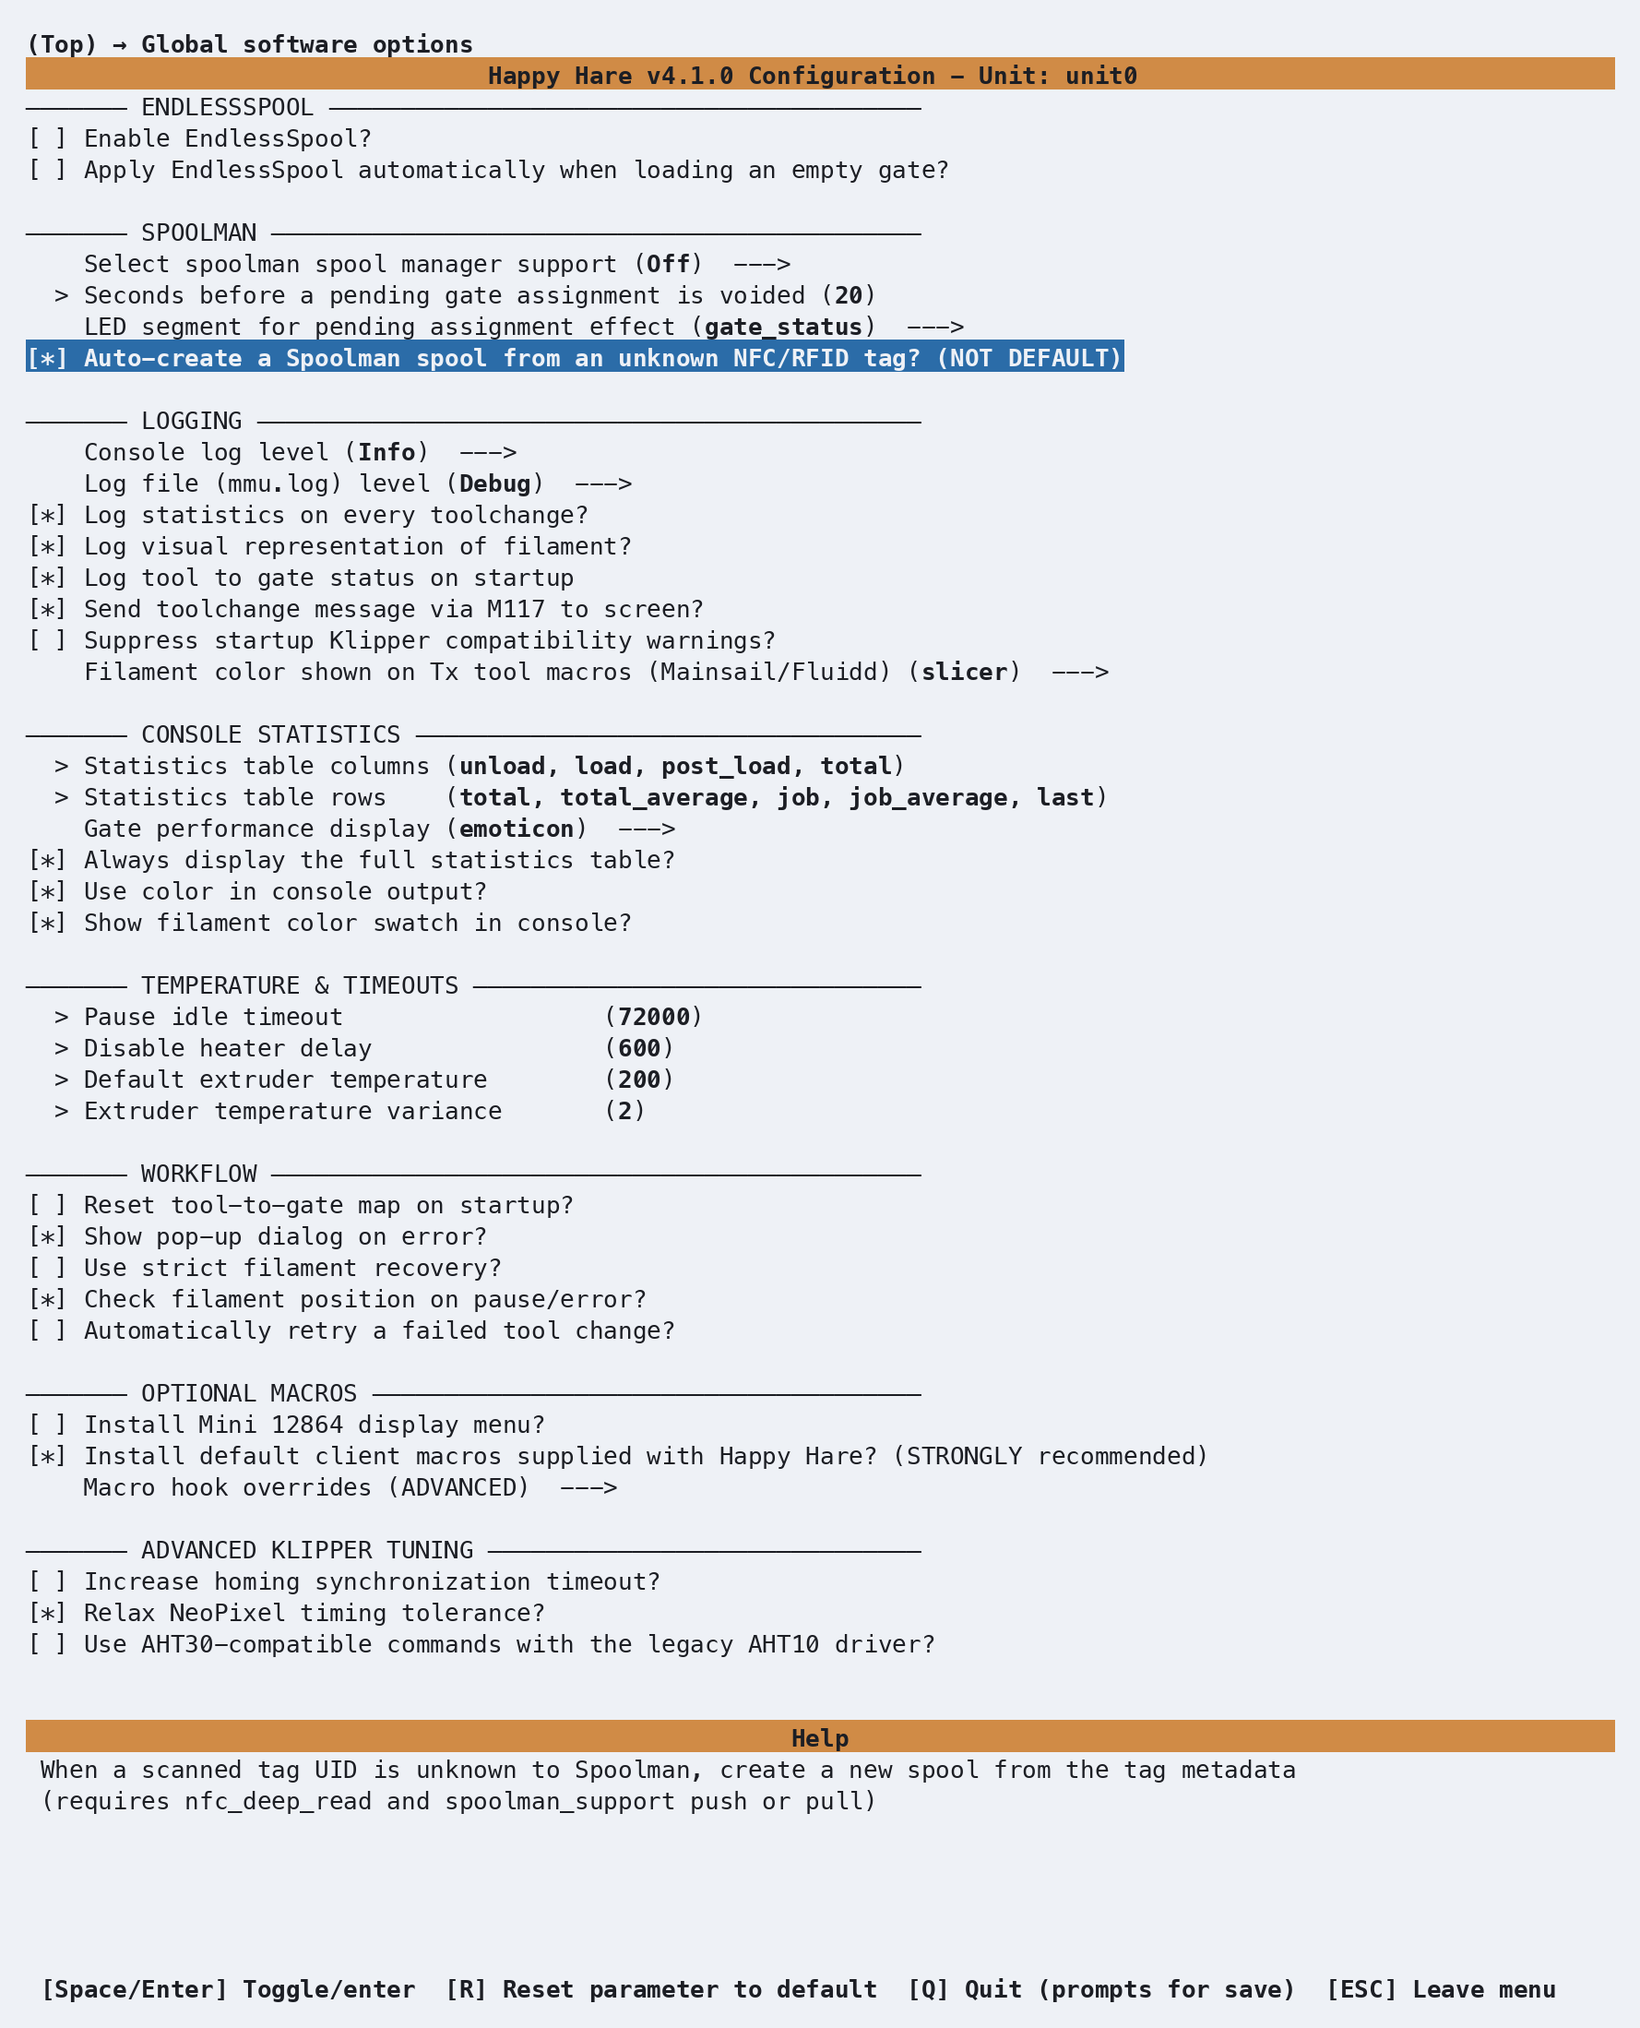
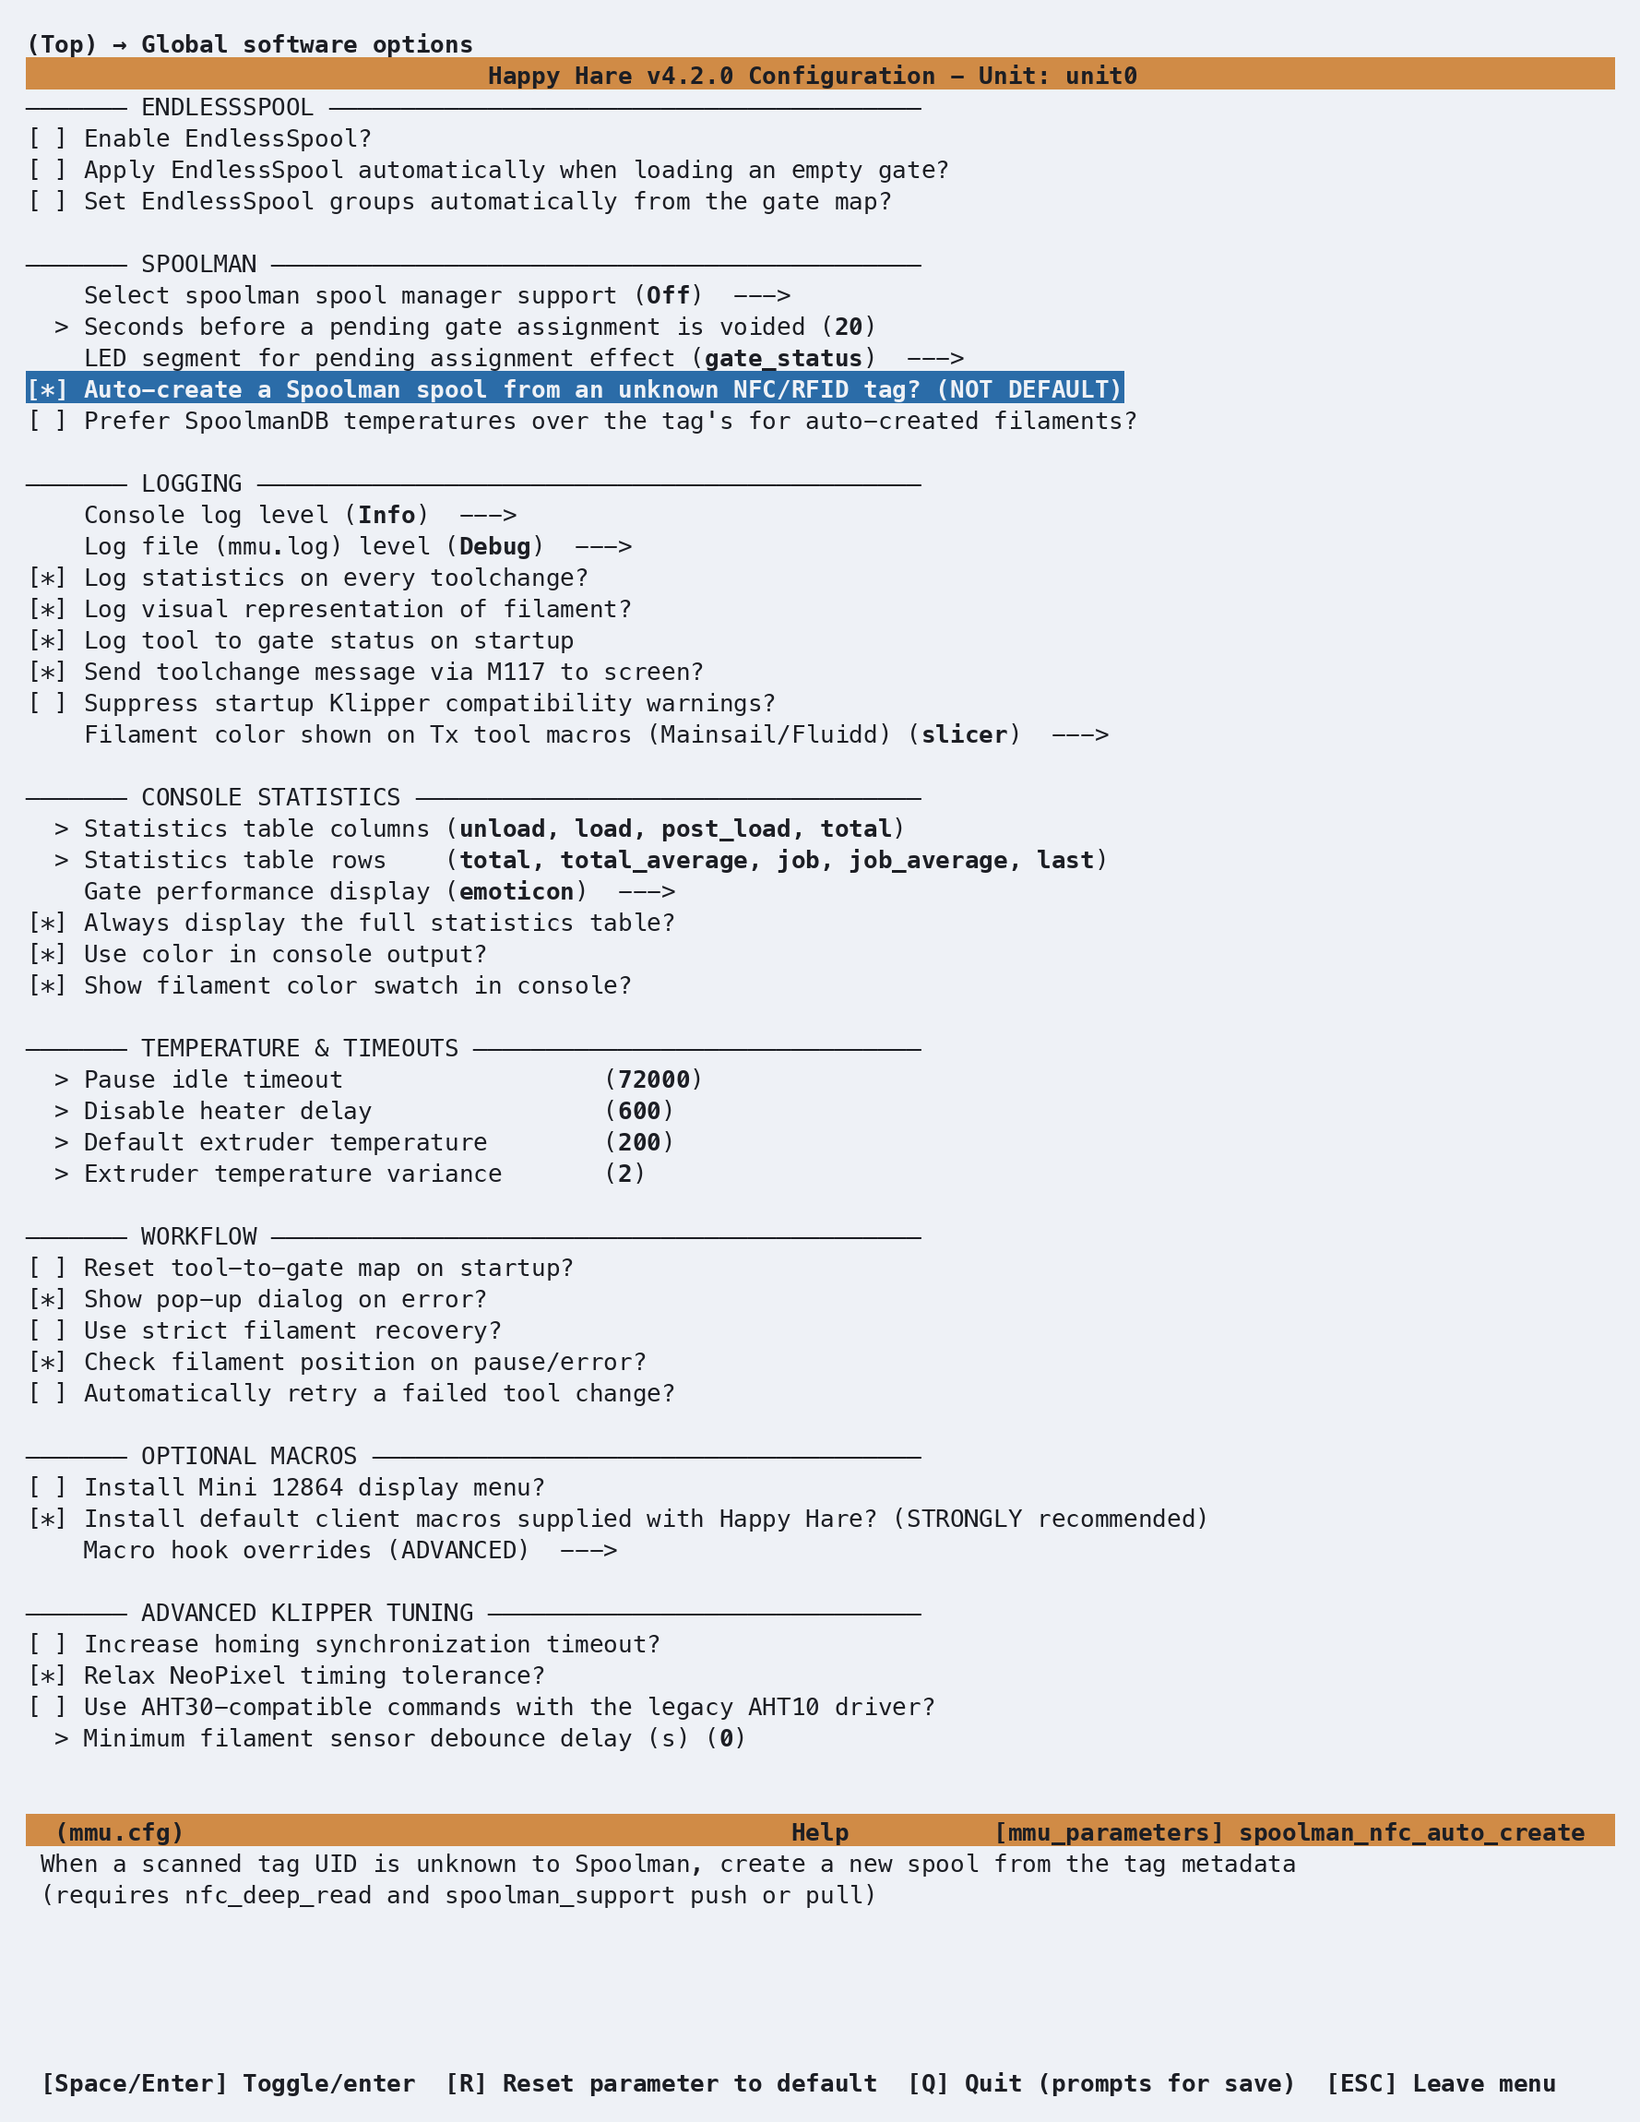
docs: cover automatic EndlessSpool groups

diff --git a/doc_tools/shots.py b/doc_tools/shots.py
@@ -839,7 +839,7 @@ def _feature_endless_spool_runout(mc, shot):
     """
     mc.enter(menu_of('PARAM_ENDLESS_SPOOL_ENABLED'))
     mc.select(symbol('PARAM_ENDLESS_SPOOL_ENABLED'))
-    # both EndlessSpool checkboxes, off by default
+    # EndlessSpool enable, on-load and automatic-group checkboxes, off by default
     shot('endless-spool-options')
 
 

diff --git a/doc/Feature-Endless-Spool-Runout.md b/doc/Feature-Endless-Spool-Runout.md
@@ -44,30 +44,30 @@ fitted and active.
 
 ## Parameter Setup
 
-Two checkboxes live under **Global software options** in menuconfig:
+The EndlessSpool options live under **Global software options** in menuconfig:
 
 <p align="center">
-  <img src="Feature-Endless-Spool-Runout/endless-spool-options.png" alt="Global software options screen, EndlessSpool section: Enable EndlessSpool and Apply EndlessSpool automatically when loading an empty gate, both off by default" width="80%">
+  <img src="Feature-Endless-Spool-Runout/endless-spool-options.png" alt="Global software options screen, EndlessSpool section: enable, apply on load, and automatic grouping, all off by default" width="80%">
 </p>
 
-Both default **off**. They set two plain settings in `mmu.cfg`, alongside two
-more that only a hand-edit reaches:
+All three checkboxes default **off**. They set the following options in
+`mmu.cfg`; the eject gate and default manual groups can also be edited there:
 
 ```ini
 endless_spool_enabled    : 0    # 0 = disable, 1 = enable EndlessSpool
 endless_spool_on_load    : 0    # 0 = don't apply on load, 1 = run EndlessSpool if the gate is empty
 endless_spool_eject_gate : -1   # Which gate to eject filament remains to. -1 = current gate
-endless_spool_groups     :      # Group membership per gate, comma-separated (blank = no groups defined)
+endless_spool_auto_groups: 0    # 0 = manual groups, 1 = group by gate-map material and color
+default_endless_spool_groups:   # Manual defaults, comma-separated (blank = one group per gate)
 ```
 
-`endless_spool_groups` is easier to manage from the console than by hand -
+Manual groups are easier to manage from the console than by hand -
 see [Commands](#commands) below. `endless_spool_eject_gate` lets a design
 with a moving selector send the leftover filament fragment somewhere other
 than back through the gate it just came from - useful if your buffer design
 tends to let that fragment drift into a neighboring gate's buffer and
-tangle it. Set it to the gate number you want to use (it must be `1` or
-higher - `0` isn't accepted here, so gate 0 can't be the designated waste
-gate). Two things worth knowing before turning it on:
+tangle it. Set it to the gate number you want to use (gate numbering starts
+at `0`). Two things worth knowing before turning it on:
 
 !!! warning "Important"
     Selecting a waste gate this way disables entry-sensor runout detection
@@ -82,6 +82,49 @@ on demand - a design with no moving selector, or one where reaching a
 specific gate independent of the print isn't practical, generally won't
 benefit from this option.
 
+### Automatic groups from the gate map
+
+Enable **Set EndlessSpool groups automatically from the gate map?** in
+menuconfig, or set `endless_spool_auto_groups: 1` in `mmu.cfg` and restart
+Klipper. Enable EndlessSpool itself too; automatic grouping only controls
+which gates back each other up.
+
+Gates with the same material and RGB color share a group. Material matching
+ignores case; color names match their hexadecimal RGB values, and the alpha
+(transparency) component is ignored. For example, `PLA` / `red` and
+`pla` / `FF0000E3` match, but red PETG belongs to a different group.
+The group number comes from the first gate with that material and color.
+With gates 0–3 holding white PETG, black ASA, white ASA and white ASA,
+the groups are `0,1,2,2`.
+
+Groups follow gate-map updates, including edits with
+[`MMU_GATE_MAP`](Reference-Commands.md#mmu_gate_map),
+[Spoolman](Feature-Spoolman.md) and [NFC tags](Feature-NFC.md). They are also rebuilt
+at startup, when gate availability changes, and on `MMU_ENDLESS_SPOOL RESET=1`.
+A gate with filament but missing material or color stays in a group of its
+own; `unknown` material also counts as missing.
+
+An emptied gate remembers its previous material and color for grouping even
+if its gate-map attributes are cleared. This lets a runout or
+[`MMU_CHECK_GATE`](Reference-Commands.md#mmu_check_gate) still find a matching
+replacement. It stays with matching spools if another member changes material
+or color. After a restart, or when automatic grouping is first enabled, an
+empty gate can recover that identity from former group members only if their
+known material and color agree; otherwise it stands alone. Refilling a gate
+without material or color removes it from its old group until that data is
+available again.
+
+To try automatic grouping for the current session:
+
+```text
+MMU_TEST_CONFIG endless_spool_auto_groups=1
+MMU_ENDLESS_SPOOL ENABLE=1
+```
+
+Save the option in `mmu.cfg` or menuconfig to keep it after a restart.
+Automatic grouping uses material and color only: check that grouped spools
+are suitable substitutes for your print.
+
 ## Commands
 
 Full parameter reference: [`MMU_ENDLESS_SPOOL`](Reference-Commands.md#mmu_endless_spool).
@@ -89,7 +132,7 @@ Full parameter reference: [`MMU_ENDLESS_SPOOL`](Reference-Commands.md#mmu_endles
 ```text
 MMU_ENDLESS_SPOOL                     # Report current status and groups
 MMU_ENDLESS_SPOOL GROUPS=1,1,2,2      # Gates 0+1 share a group, gates 2+3 share another
-MMU_ENDLESS_SPOOL RESET=1             # Back to the default grouping (normally one gate per group)
+MMU_ENDLESS_SPOOL RESET=1             # Restore configured enable state and rebuild/reset groups
 MMU_ENDLESS_SPOOL ENABLE=0 QUIET=1    # Turn EndlessSpool off without any console/log output
 ```
 
@@ -109,6 +152,12 @@ Groups are numbered when you set them (`GROUPS=0,1,2,1,...`) but reported
 back lettered (`Group A`, `Group B`, ...) - group `0` is `A`, group `1` is
 `B`, and so on. `GROUPS=` must list exactly one entry per gate; anything
 else is rejected with an error rather than partially applied.
+
+With automatic grouping enabled, `GROUPS=` reports an error and leaves the
+groups unchanged. `RESET=1` rebuilds groups from the gate map instead of
+keeping the manual defaults. The enabled status report also says that groups
+come from the gate map. To return to manual grouping, set
+`endless_spool_auto_groups` to `0`, then assign the groups you want.
 
 **A worked cycle**: with the `Group A: Gates: 0, 3, 6` grouping above, `T0`
 mapped to gate 0, and gate 3 already known empty from an earlier runout,
@@ -154,8 +203,10 @@ read it, but new macros should use `endless_spool_enabled` instead.
 
 - **Set up groups before you need them, not during a print.** Work out which
   gates share the same filament (color and material) and assign them the
-  same group number with `MMU_ENDLESS_SPOOL GROUPS=...` - a gate with no
-  match of its own should get a group number no other gate shares.
+  same group number with `MMU_ENDLESS_SPOOL GROUPS=...`, or enable automatic
+  grouping and check the resulting groups with `MMU_ENDLESS_SPOOL`. In manual
+  mode, a gate with no match of its own should get a group number no other
+  gate shares.
 - **Rehearse with `MMU_TEST_RUNOUT` first.** It exercises the exact same
   group lookup and gate remap a real runout would, without needing to
   actually run a spool dry - a good way to confirm your groups are set up the
@@ -185,7 +236,11 @@ read it, but new macros should use `endless_spool_enabled` instead.
   become flaky and is firing false runouts can be disabled on its own
   without losing runout detection everywhere else - see
   [Feature: Sensors](Feature-Sensors.md#tuning).
-- **`GROUPS=` was rejected** - it needs exactly one comma-separated,
+- **An automatically grouped gate has no backup** - check that its material
+  and color are present and match the intended replacement. A refilled gate
+  whose NFC tag was not read stays separate until its metadata is supplied.
+- **`GROUPS=` was rejected** - automatic grouping must be off to assign
+  groups manually. The command also needs exactly one comma-separated,
   non-negative integer per gate; a mismatched count or a stray character
   fails the whole command rather than applying part of it.
 

diff --git a/doc/Reference-Parameters.md b/doc/Reference-Parameters.md
@@ -94,7 +94,8 @@ the full picture.
 | `endless_spool_enabled` | `0` | Enable [EndlessSpool](Feature-Endless-Spool-Runout.md) - automatic hand-off to a spare gate on runout |
 | `endless_spool_on_load` | `0` | Also apply EndlessSpool if the gate a load targets turns out to be empty |
 | `endless_spool_eject_gate` | `-1` | Which gate to eject filament remains to - `-1` = the current gate |
-| `endless_spool_groups` | *(empty)* | EndlessSpool grouping list - empty means no groups defined |
+| `endless_spool_auto_groups` | `0` | Build groups automatically from gate-map material and RGB color; ignores alpha and rejects manual `GROUPS=` assignments. See [automatic grouping](Feature-Endless-Spool-Runout.md#automatic-groups-from-the-gate-map) |
+| `default_endless_spool_groups` | *(empty)* | Default manual group membership per gate; empty gives each gate its own group |
 | `spoolman_support` | `off` | `off`/`readonly`/`push`/`pull` - see [Feature: Spoolman / Filament Hub](Feature-Spoolman.md) for what each does |
 | `spoolman_pending_id_timeout` | `20` s | How long a pending gate assignment (spool ID, NFC tag or TD-1 scan) stays valid before being voided |
 | `spoolman_led_segment` | `gate_status` | Which LED segment(s) show the pending-assignment overlay: `gate_status`, `status`, or `both` |
@@ -190,7 +191,7 @@ your gate count. All commented out (and therefore inactive) by default.
 | Parameter | Restored by |
 |---|---|
 | `default_gate_status`, `default_gate_vendor`, `default_gate_filament_name`, `default_gate_material`, `default_gate_color`, `default_gate_temperature`, `default_gate_spool_id`, `default_gate_speed_override`, `default_gate_td`, `default_gate_td1_color`, `default_gate_spool_rfid`, `default_gate_remaining_weight`, `default_gate_initial_weight` | `MMU_GATE_MAP RESET=1` |
-| `default_endless_spool_groups` | `MMU_ENDLESS_SPOOL_GROUPS RESET=1` |
+| `default_endless_spool_groups` | `MMU_ENDLESS_SPOOL RESET=1` |
 | `default_ttg_map` | `MMU_TTG_MAP RESET=1` |
 
 ### Toolhead geometry (`[mmu_toolhead]`)

diff --git a/doc/Feature-Gate-TTG-Maps.md b/doc/Feature-Gate-TTG-Maps.md
@@ -231,7 +231,7 @@ and Mainsail/Fluidd both have a TTG editor:
 </table>
 
 !!! tip
-    The default TTG map (and EndlessSpool groups) can also be preset in
+    The default TTG map (and manual EndlessSpool groups) can also be preset in
     `mmu.cfg`'s `default_ttg_map`/`default_endless_spool_groups` -
     restored by `MMU_TTG_MAP RESET=1`/`MMU_ENDLESS_SPOOL RESET=1`
     respectively. See [Feature: EndlessSpool &
@@ -266,9 +266,10 @@ Print start/end (\_MMU_SOFTWARE)** in menuconfig):
   ID directly.
 
 If more than one gate matches, Happy Hare uses the last match found and logs
-a warning rather than guessing - it does not create an EndlessSpool group
-automatically, so if you want gate 3 and gate 7's matching PLA to act as one
-EndlessSpool pair, set that group up yourself.
+a warning. Tool automapping does not itself create an EndlessSpool group.
+To make matching spools back each other up, assign a group manually or enable
+[automatic EndlessSpool grouping](Feature-Endless-Spool-Runout.md#automatic-groups-from-the-gate-map)
+with `endless_spool_auto_groups: 1`.
 
 You can also trigger a single tool's automap by hand, after the slicer tool
 map is loaded:

diff --git a/doc/Release-Notes.md b/doc/Release-Notes.md
@@ -311,6 +311,8 @@ and the [development-only comparison](https://github.com/moggieuk/Happy-Hare/com
   remains available for existing UIs.
   ([#1510](https://github.com/moggieuk/Happy-Hare/pull/1510))
 
+- Add opt-in [automatic EndlessSpool groups](Feature-Endless-Spool-Runout.md#automatic-groups-from-the-gate-map) with `endless_spool_auto_groups` (default `0`). Gates with matching material and RGB color back each other up, following gate-map, Spoolman and NFC updates. Empty gates retain their matching replacements; refilled gates without metadata stay separate. Manual `GROUPS=` assignments are rejected while enabled. ([#1511](https://github.com/moggieuk/Happy-Hare/pull/1511))
+
 - Add the [`spool_created` macro event](Macro-State-Change-Hooks.md#reacting-to-a-newly-created-spool) when a scanned tag creates a Spoolman spool, with `SPOOLID` and `GATE` (`-1` for a shared reader awaiting assignment). Handle it through `user_mmu_event_extension`; known-spool lookups do not emit it. ([#1504](https://github.com/moggieuk/Happy-Hare/pull/1504))
 
 ---

diff --git a/maintainer/roadmap.md b/maintainer/roadmap.md
@@ -21,7 +21,12 @@ and menuconfig-only exclusions.
 
 ## Publication dependencies
 
-- Except for the heater control menu below, Happy Hare menuconfig screenshots target `development` at `12236421`
+- EndlessSpool automatic-group documentation and the Global software options
+  screenshots for EndlessSpool, ViViD and 3MS target PR #1511, merged at
+  `1c178141`. Regenerate those sessions with
+  `make shots HAPPY_HARE_REF=1c178141ccde2dce5aae3a8d2d4da3c832e5ad16 ARGS='--only feature-endless-spool-runout --only getting-started-vivid --only getting-started-3ms-additions'`.
+
+- Except for the updated menus listed here, Happy Hare menuconfig screenshots target `development` at `12236421`
   (2026-10-18), including the reorganized MMU Kinematics and Speeds menu.
   Regenerate with `make shots HAPPY_HARE_REF=12236421568777b9adafef69fb19d60cd6ec6eff`.
 
